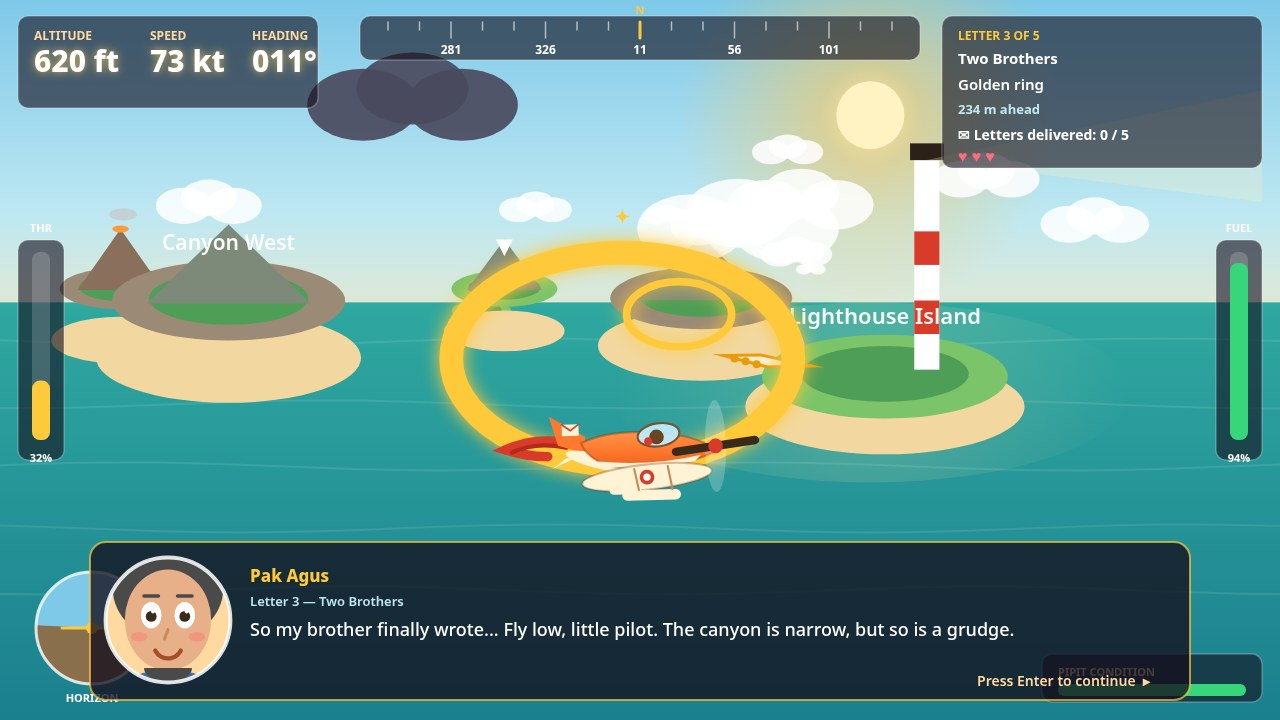
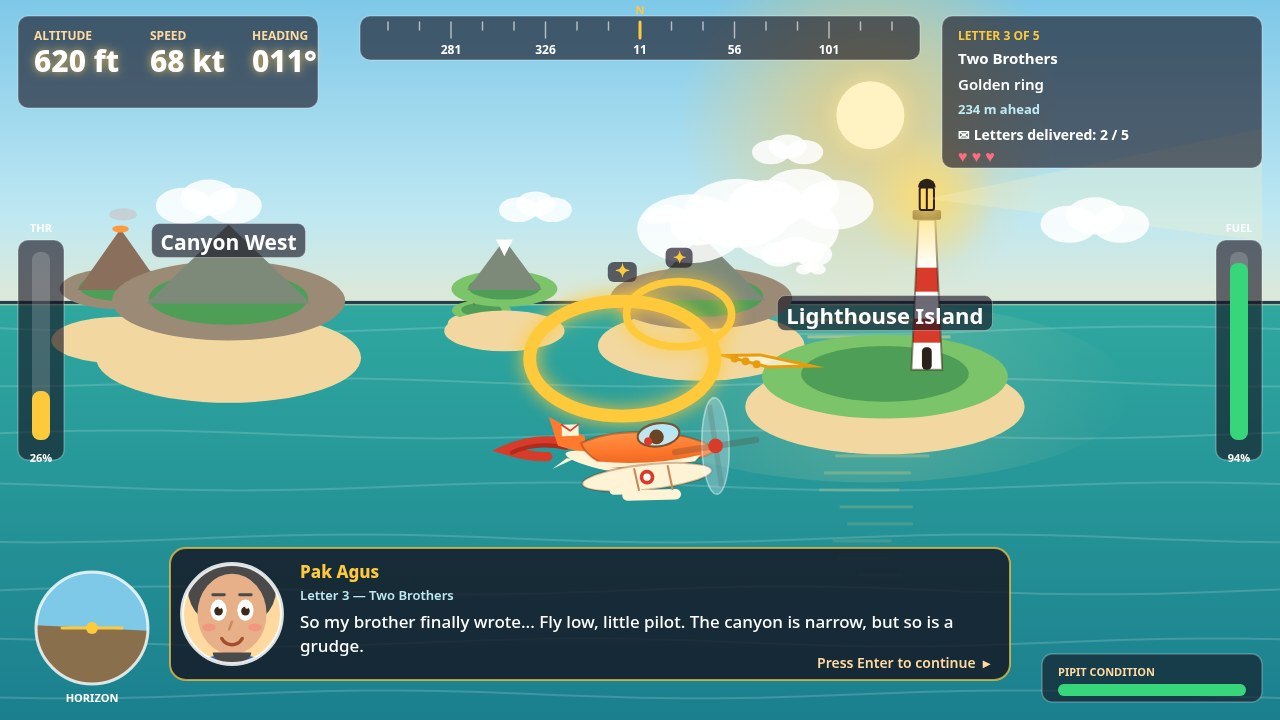
Polish screenshots: sunset sea, readable labels, dialogue clear of gauges, staged letters/speeds, translucent propeller, capped rings, complete lighthouse

diff --git a/game/src/terrain.js b/game/src/terrain.js
@@ -71,7 +71,7 @@ function skyColors(sky) {
   return [PALETTE.skyTopDay, PALETTE.skyMidDay, PALETTE.skyLowDay];
 }
 function seaColors(sky) {
-  if (sky === 'dusk' || sky === 'sunset') return [PALETTE.seaDusk, '#8f4a3a'];
+  if (sky === 'dusk' || sky === 'sunset') return ['#e07856', '#2e6b7a', '#142c44'];
   if (sky === 'night') return [PALETTE.seaNight, '#101c3a'];
   return [PALETTE.seaDay, PALETTE.seaDeepDay];
 }
@@ -100,12 +100,36 @@ export function drawSky(ctx, sky, time) {
 }
 
 export function drawSea(ctx, sky, time) {
-  const [top, deep] = seaColors(sky);
+  const stops = seaColors(sky);
   const horizon = VIEW.height * CAMERA.horizonBase;
   const g = ctx.createLinearGradient(0, horizon, 0, VIEW.height);
-  g.addColorStop(0, top); g.addColorStop(1, deep);
+  if (stops.length === 3) {
+    // Sunset/dusk sea: a warm orange band at the horizon, fading fast
+    // into deep teal — unmistakably water, never brown land.
+    g.addColorStop(0, stops[0]); g.addColorStop(0.16, '#8a5a68'); g.addColorStop(0.38, stops[1]); g.addColorStop(1, stops[2]);
+  } else {
+    g.addColorStop(0, stops[0]); g.addColorStop(1, stops[1]);
+  }
   ctx.fillStyle = g; ctx.fillRect(0, horizon, VIEW.width, VIEW.height - horizon);
-  // Sun glitter: one soft wide glow on the water under the sun.
+  // A crisp horizon line separates sky from water.
+  ctx.fillStyle = 'rgba(20,30,55,0.85)'; ctx.fillRect(0, horizon - 1.5, VIEW.width, 3);
+  ctx.fillStyle = 'rgba(255,220,160,0.5)'; ctx.fillRect(0, horizon + 1.5, VIEW.width, 1.5);
+  // Sun glitter: a column of gold dashes on the water under the sun.
+  if (sky === 'dusk' || sky === 'sunset' || sky === 'day') {
+    const gx = VIEW.width * 0.68;
+    ctx.save();
+    for (let i = 0; i < 16; i += 1) {
+      const y = horizon + 16 + i * 17;
+      const w = 150 - i * 7;
+      const alpha = 0.5 - i * 0.028;
+      if (alpha <= 0) break;
+      ctx.fillStyle = `rgba(255,214,120,${alpha.toFixed(2)})`;
+      const wob = Math.sin(time * 1.3 + i * 1.7) * 12;
+      ctx.fillRect(gx - w / 2 + wob, y, w, 3);
+    }
+    ctx.restore();
+  }
+  // Soft wide glow on the water under the sun.
   ctx.save(); ctx.globalAlpha = 0.22;
   const gl = ctx.createRadialGradient(VIEW.width * 0.68, horizon + 90, 4, VIEW.width * 0.68, horizon + 90, 260);
   gl.addColorStop(0, 'rgba(255,233,168,0.9)');
@@ -113,10 +137,11 @@ export function drawSea(ctx, sky, time) {
   ctx.fillStyle = gl;
   ctx.beginPath(); ctx.ellipse(VIEW.width * 0.68, horizon + 90, 260, 90, 0, 0, Math.PI * 2); ctx.fill();
   ctx.restore();
-  // Gentle swell lines.
-  ctx.strokeStyle = 'rgba(255,255,255,0.10)'; ctx.lineWidth = 2;
-  for (let i = 0; i < 5; i += 1) {
-    const y = horizon + 40 + i * 62;
+  // Visible wave lines, stronger than before so the water reads as water.
+  ctx.strokeStyle = sky === 'dusk' || sky === 'sunset' ? 'rgba(255,220,170,0.20)' : 'rgba(255,255,255,0.16)';
+  ctx.lineWidth = 2;
+  for (let i = 0; i < 8; i += 1) {
+    const y = horizon + 28 + i * 52;
     ctx.beginPath();
     for (let x = 0; x <= VIEW.width; x += 40) {
       const yy = y + Math.sin(x * 0.01 + time * 0.8 + i * 2) * 4;
@@ -171,15 +196,49 @@ function drawIsland(ctx, cam, isl, sky, time) {
     }
   }
   if (isl.kind === 'lighthouse') {
-    const lx = p.x + r * 0.3, baseY = topY + r * 0.05, hgt = r * 1.5;
-    ctx.fillStyle = '#fff'; ctx.fillRect(lx - r * 0.09, baseY - hgt, r * 0.18, hgt);
-    ctx.fillStyle = '#d93b2b'; ctx.fillRect(lx - r * 0.09, baseY - hgt * 0.66, r * 0.18, hgt * 0.16);
-    ctx.fillRect(lx - r * 0.09, baseY - hgt * 0.33, r * 0.18, hgt * 0.16);
-    ctx.fillStyle = '#2b2118'; ctx.fillRect(lx - r * 0.12, baseY - hgt - r * 0.12, r * 0.24, r * 0.12);
+    // A complete lighthouse: tapered tower, red bands, gallery platform,
+    // glowing lamp room and dome — never a bare pole cut off at the top.
+    const lx = p.x + r * 0.3, baseY = topY + r * 0.05;
+    const hgt = Math.min(r * 1.15, 150);
+    const bw = r * 0.22, tw = r * 0.12;
+    const lampY = baseY - hgt;
+    ctx.save();
+    ctx.beginPath();
+    ctx.moveTo(lx - bw / 2, baseY); ctx.lineTo(lx - tw / 2, lampY);
+    ctx.lineTo(lx + tw / 2, lampY); ctx.lineTo(lx + bw / 2, baseY); ctx.closePath();
+    ctx.fillStyle = '#fff'; ctx.fill();
+    ctx.clip();
+    ctx.fillStyle = '#d93b2b';
+    ctx.fillRect(lx - bw, baseY - hgt * 0.68, bw * 2, hgt * 0.16);
+    ctx.fillRect(lx - bw, baseY - hgt * 0.34, bw * 2, hgt * 0.16);
+    ctx.restore();
+    ctx.strokeStyle = 'rgba(60,40,20,0.5)'; ctx.lineWidth = 2;
+    ctx.beginPath();
+    ctx.moveTo(lx - bw / 2, baseY); ctx.lineTo(lx - tw / 2, lampY);
+    ctx.lineTo(lx + tw / 2, lampY); ctx.lineTo(lx + bw / 2, baseY); ctx.closePath(); ctx.stroke();
+    // Door at the base.
+    ctx.fillStyle = '#2b2118';
+    ctx.beginPath(); ctx.roundRect(lx - r * 0.035, baseY - r * 0.16, r * 0.07, r * 0.16, r * 0.03); ctx.fill();
+    // Gallery platform, wider than the tower top.
+    ctx.fillStyle = '#2b2118';
+    ctx.beginPath(); ctx.roundRect(lx - tw * 0.85, lampY - r * 0.07, tw * 1.7, r * 0.07, 2); ctx.fill();
+    // Lamp room: glowing glass in a dark frame, with a dome cap.
+    const lampH = r * 0.16, lampW = tw * 0.85;
+    const glow = ctx.createRadialGradient(lx, lampY - r * 0.07 - lampH / 2, 2, lx, lampY - r * 0.07 - lampH / 2, r * 0.5);
+    glow.addColorStop(0, 'rgba(255,220,110,0.9)'); glow.addColorStop(1, 'rgba(255,220,110,0)');
+    ctx.fillStyle = glow; ctx.beginPath(); ctx.arc(lx, lampY - r * 0.07 - lampH / 2, r * 0.5, 0, Math.PI * 2); ctx.fill();
+    ctx.fillStyle = '#ffd76a';
+    ctx.beginPath(); ctx.roundRect(lx - lampW / 2, lampY - r * 0.07 - lampH, lampW, lampH, 2); ctx.fill();
+    ctx.strokeStyle = '#2b2118'; ctx.lineWidth = 2;
+    ctx.beginPath(); ctx.roundRect(lx - lampW / 2, lampY - r * 0.07 - lampH, lampW, lampH, 2); ctx.stroke();
+    ctx.beginPath(); ctx.moveTo(lx, lampY - r * 0.07 - lampH); ctx.lineTo(lx, lampY - r * 0.07); ctx.stroke();
+    ctx.fillStyle = '#2b2118';
+    ctx.beginPath(); ctx.arc(lx, lampY - r * 0.07 - lampH, lampW * 0.62, Math.PI, 0); ctx.fill();
+    const beamY = lampY - r * 0.07 - lampH / 2;
     const beam = (Math.sin(time * 0.7) + 1) / 2;
     ctx.save(); ctx.globalAlpha = 0.25 + beam * 0.3; ctx.fillStyle = '#fff3c4';
-    ctx.beginPath(); ctx.moveTo(lx, baseY - hgt);
-    ctx.lineTo(lx + r * 2.4, baseY - hgt - r * 0.5); ctx.lineTo(lx + r * 2.4, baseY - hgt + r * 0.3);
+    ctx.beginPath(); ctx.moveTo(lx, beamY);
+    ctx.lineTo(lx + r * 2.4, beamY - r * 0.5); ctx.lineTo(lx + r * 2.4, beamY + r * 0.3);
     ctx.closePath(); ctx.fill(); ctx.restore();
   }
   if (isl.kind === 'village') {
@@ -206,12 +265,8 @@ function drawIsland(ctx, cam, isl, sky, time) {
     drawPalm(ctx, p.x - r * 0.45, topY + r * 0.05, r * 0.5);
     drawPalm(ctx, p.x + r * 0.4, topY + r * 0.02, r * 0.42);
   }
-  // Island name tag when close enough to read and clear of the HUD edges.
-  if (p.depth < 900 && p.x > 150 && p.x < VIEW.width - 150) {
-    ctx.font = `600 ${Math.max(11, Math.round(r * 0.16))}px ${'system-ui, sans-serif'}`;
-    ctx.textAlign = 'center'; ctx.fillStyle = 'rgba(255,255,255,0.95)';
-    ctx.fillText(isl.name, p.x, topY - r * 0.28);
-  }
+  // Island names are drawn separately, last, by drawIslandLabels — after
+  // rings, clouds and the plane — so no label is ever half-hidden.
 }
 
 export function drawRunway(ctx, cam, isl, sky) {
@@ -238,10 +293,46 @@ export function drawRunway(ctx, cam, isl, sky) {
   ctx.restore();
 }
 
+export function drawIslandLabels(ctx, cam) {
+  // Labels last, on a dark pill with a halo, so rings, clouds and the
+  // plane can never cover the text.
+  for (const isl of ISLANDS) {
+    const p = project(cam, isl.x, 0, isl.z);
+    if (!p || p.depth >= 900 || p.x < 120 || p.x > VIEW.width - 120) continue;
+    const r = Math.max(4, isl.r * p.scale);
+    const topY = p.y - isl.h * p.scale;
+    const size = Math.max(12, Math.round(r * 0.16));
+    ctx.font = `700 ${size}px system-ui, sans-serif`;
+    ctx.textAlign = 'center'; ctx.textBaseline = 'alphabetic';
+    const w = ctx.measureText(isl.name).width;
+    const ly = topY - r * 0.28;
+    // Clamp the pill so it never runs off the screen edge (a label
+    // centred on a half-visible island used to be clipped on the left).
+    const half = w / 2 + 9;
+    const cx = Math.max(half + 8, Math.min(VIEW.width - half - 8, p.x));
+    ctx.fillStyle = 'rgba(18,14,30,0.62)';
+    ctx.beginPath(); ctx.roundRect(cx - w / 2 - 9, ly - size - 6, w + 18, size + 13, 8); ctx.fill();
+    ctx.strokeStyle = 'rgba(255,255,255,0.35)'; ctx.lineWidth = 1; ctx.stroke();
+    ctx.fillStyle = '#fff';
+    ctx.fillText(isl.name, cx, ly);
+  }
+}
+
 export function drawRing(ctx, cam, ring, time) {
   const p = project(cam, ring.x, ring.y, ring.z);
   if (!p || p.depth < 45) return;
-  const r = Math.min(170, Math.max(6, ring.r * p.scale * 1.6));
+  // Capped so a ring never envelops the whole island or the plane: it
+  // must read as a target ahead, with island and runway visible through it.
+  const r = Math.min(92, Math.max(6, ring.r * p.scale * 1.6));
+  // Never draw a ring half-hidden behind a HUD panel (its arc and its
+  // FUEL label would both be cut by the panel): skip it this frame.
+  const panels = [
+    [18, 16, 300, 92], [360, 16, 560, 44], [VIEW.width - 338, 16, 320, 152],
+    [18, 240, 46, 220], [VIEW.width - 64, 240, 46, 220],
+  ];
+  for (const [px, py, pw, ph] of panels) {
+    if (p.x + r > px && p.x - r < px + pw && p.y + r * 0.62 > py && p.y - r * 0.8 - 28 < py + ph) return;
+  }
   const pulse = 1 + Math.sin(time * 3 + ring.z * 0.01) * 0.06;
   ctx.save();
   ctx.strokeStyle = ring.fuel ? '#37d67a' : PALETTE.gold;
@@ -250,19 +341,32 @@ export function drawRing(ctx, cam, ring, time) {
   ctx.shadowBlur = 18;
   ctx.beginPath(); ctx.ellipse(p.x, p.y, r * pulse, r * 0.62 * pulse, 0, 0, Math.PI * 2); ctx.stroke();
   ctx.shadowBlur = 0;
-  ctx.fillStyle = ring.fuel ? '#37d67a' : PALETTE.gold;
+  const labelText = ring.fuel ? 'FUEL' : '✦';
   ctx.font = `700 ${Math.max(11, Math.min(18, Math.round(r * 0.3)))}px system-ui, sans-serif`;
-  ctx.textAlign = 'center';
-  ctx.fillText(ring.fuel ? 'FUEL' : '✦', p.x, p.y - r * 0.8);
+  ctx.textAlign = 'center'; ctx.textBaseline = 'alphabetic';
+  const lw = ctx.measureText(labelText).width;
+  const labelY = p.y - r * 0.8 - 8;
+  ctx.fillStyle = 'rgba(18,14,30,0.65)';
+  ctx.beginPath(); ctx.roundRect(p.x - lw / 2 - 7, labelY - 15, lw + 14, 20, 6); ctx.fill();
+  ctx.fillStyle = ring.fuel ? '#37d67a' : PALETTE.gold;
+  ctx.fillText(labelText, p.x, labelY);
   ctx.restore();
 }
 
 export function drawCloud(ctx, cam, cloud, sky, time) {
   const p = project(cam, cloud.x, cloud.y, cloud.z);
   if (!p || p.depth < 90) return;
-  // Never paint a cloud over the HUD panels at the top corners.
-  if (p.y < 140 && (p.x < 360 || p.x > 920)) return;
   const s = Math.min(90, Math.max(6, cloud.s * p.scale));
+  // Never paint a cloud over a HUD panel: check the cloud's whole
+  // bounding box against every panel, not just its centre.
+  const bx0 = p.x - s * 1.2, bx1 = p.x + s * 1.2, by0 = p.y - s * 0.6, by1 = p.y + s * 0.4;
+  const panels = [
+    [18, 16, 300, 92], [360, 16, 560, 44], [VIEW.width - 338, 16, 320, 152],
+    [18, 240, 46, 220], [VIEW.width - 64, 240, 46, 220],
+  ];
+  for (const [px, py, pw, ph] of panels) {
+    if (bx1 > px && bx0 < px + pw && by1 > py && by0 < py + ph) return;
+  }
   ctx.save();
   ctx.globalAlpha = cloud.storm ? 0.92 : 0.85;
   ctx.fillStyle = cloud.storm ? '#4a4a5e' : sky === 'night' ? '#5a5a8a' : sky === 'sunset' || sky === 'dusk' ? '#ffe9c4' : '#ffffff';
@@ -287,6 +391,7 @@ export function drawTerrain(ctx, cam, sky, clouds, rings, runwayIsland, time) {
   const farClouds = clouds.filter((c) => c.z > cam.z + 200);
   const nearClouds = clouds.filter((c) => c.z <= cam.z + 200);
   for (const c of farClouds) drawCloud(ctx, cam, c, sky, time);
-  for (const ring of rings) if (!ring.done) drawRing(ctx, cam, ring, time);
   for (const c of nearClouds) drawCloud(ctx, cam, c, sky, time);
+  // Rings after the clouds, so no cloud ever covers a ring or its label.
+  for (const ring of rings) if (!ring.done) drawRing(ctx, cam, ring, time);
 }

diff --git a/game/src/render.js b/game/src/render.js
@@ -3,7 +3,7 @@
 // Chase camera, terrain, Pipit, particles, HUD, dialogue overlay, and the
 // title, pause, crash, delivered and ending screens.
 import { VIEW, FONT, PALETTE } from './config.js';
-import { cameraFor, drawTerrain, islandById, MISSION_TARGETS, project } from './terrain.js';
+import { cameraFor, drawTerrain, drawIslandLabels, islandById, MISSION_TARGETS, project } from './terrain.js';
 import { drawPlane } from './plane.js';
 import { drawHud } from './hud.js';
 import { drawPortrait, CHARACTER_NAMES } from './characters.js';
@@ -53,15 +53,18 @@ export function createRenderer(canvas, particles, clouds) {
     const line = s.dialogue.lines[s.dialogueIndex];
     if (!line) return;
     const m = world.mission();
+    // Narrower, higher dialogue panel: it must leave the artificial
+    // horizon gauge (bottom-left) and the Pipit Condition bar
+    // (bottom-right) fully visible.
     ctx.fillStyle = 'rgba(20,16,30,0.78)';
-    ctx.beginPath(); ctx.roundRect(90, VIEW.height - 178, VIEW.width - 180, 158, 16); ctx.fill();
+    ctx.beginPath(); ctx.roundRect(170, VIEW.height - 172, 840, 132, 16); ctx.fill();
     ctx.strokeStyle = 'rgba(255,201,60,0.7)'; ctx.lineWidth = 2; ctx.stroke();
-    drawPortrait(ctx, line.who, 168, VIEW.height - 100, 120, 'happy');
-    text(ctx, CHARACTER_NAMES[line.who] || line.who, 250, VIEW.height - 138, 17, '#ffc93c', 'left', 800);
-    text(ctx, `Letter ${m.id} — ${m.name}`, 250, VIEW.height - 114, 13, '#bfe8f2', 'left');
+    drawPortrait(ctx, line.who, 232, VIEW.height - 106, 96, 'happy');
+    text(ctx, CHARACTER_NAMES[line.who] || line.who, 300, VIEW.height - 142, 17, '#ffc93c', 'left', 800);
+    text(ctx, `Letter ${m.id} — ${m.name}`, 300, VIEW.height - 120, 13, '#bfe8f2', 'left');
     ctx.fillStyle = '#fff';
-    wrapText(ctx, line.text, 250, VIEW.height - 84, VIEW.width - 360, 26, 18);
-    text(ctx, 'Press Enter to continue  ▸', VIEW.width - 130, VIEW.height - 34, 14, '#ffd9a0', 'right');
+    wrapText(ctx, line.text, 300, VIEW.height - 92, 690, 24, 17);
+    text(ctx, 'Press Enter to continue  ▸', VIEW.width - 290, VIEW.height - 52, 14, '#ffd9a0', 'right');
   }
 
   function drawTitle(world) {
@@ -138,6 +141,9 @@ export function createRenderer(canvas, particles, clouds) {
     // Petals drift up on the final flight.
     if (m.id === 5 && s.mode === 'fly') particles.petals(px, py - 40, 1);
     if (screen !== SCREEN_TITLE) drawHud(ctx, world, screen);
+    // Island labels last (after terrain, rings, clouds, plane and HUD),
+    // so no label is ever half-hidden by any of them.
+    if (screen !== SCREEN_TITLE) drawIslandLabels(ctx, cam);
     if (screen === SCREEN_PLAY) drawDialogue(world);
     if (screen === SCREEN_TITLE) drawTitle(world);
     else if (screen === SCREEN_CRASH) drawCrash(world);

diff --git a/game/src/shots.js b/game/src/shots.js
@@ -31,18 +31,31 @@ function flyFor(world, seconds) {
   }
 }
 
+// Stage the exact flight state a shot shows: letters delivered must
+// match the mission (Letter 3 => 2 already delivered, and so on), and
+// each shot reads at its own plausible speed and altitude.
+function stageState(world, letters, speed, alt, throttle, pitch) {
+  const p = world.state.plane;
+  world.state.letters = letters;
+  world.state.deliveredCount = letters;
+  p.speed = speed; p.alt = alt; p.throttle = throttle;
+  p.pitch = pitch || 0; p.vs = pitch ? -6 : 0;
+}
+
 export function stageShot(name, world) {
   const shot = name || 'cover';
   if (shot === 'cover') {
     world.startMission(0);
     world.advanceDialogue(); world.advanceDialogue();
     flyFor(world, 5.5);
+    stageState(world, 0, 82, 85, 0.42, 0);
     return { screen: SCREEN_PLAY, best: 0 };
   }
   if (shot === 'storm') {
     world.startMission(2);
     world.advanceDialogue(); world.advanceDialogue();
     flyFor(world, 15);
+    stageState(world, 2, 68, 62, 0.26, 0);
     // A mid-flight word from Agus, as the canyon opens ahead: the
     // dialogue overlay is a real game state, shown while flying.
     world.state.dialogue = { lines: [{ who: 'agus', text: 'So my brother finally wrote... Fly low, little pilot. The canyon is narrow, but so is a grudge.' }], kind: 'mid' };
@@ -53,12 +66,14 @@ export function stageShot(name, world) {
     world.startMission(3);
     world.advanceDialogue(); world.advanceDialogue();
     flyFor(world, 21);
+    stageState(world, 3, 61, 48, 0.18, -0.15);
     return { screen: SCREEN_PLAY, best: 0 };
   }
   if (shot === 'sunset') {
     world.startMission(4);
     world.advanceDialogue(); world.advanceDialogue();
     flyFor(world, 15);
+    stageState(world, 4, 74, 120, 0.33, 0);
     return { screen: SCREEN_PLAY, best: 0 };
   }
   world.startMission(0);

diff --git a/game/src/plane.js b/game/src/plane.js
@@ -65,14 +65,21 @@ export function drawPlane(ctx, cx, cy, scale, bank, pitch, propAngle, scarfWave,
   ctx.strokeStyle = '#c98a5a'; ctx.lineWidth = 2;
   ctx.beginPath(); ctx.moveTo(-6, 18); ctx.lineTo(-2, 38); ctx.stroke();
   ctx.beginPath(); ctx.moveTo(26, 16); ctx.lineTo(30, 38); ctx.stroke();
-  // Propeller: spinning blur disc + two blades at propAngle.
+  // Propeller: a translucent spinning blur disc, never a solid bar.
+  // Two faint blades at propAngle inside a light-grey disc, so the
+  // nose reads as a spinning prop, not a stick across the plane.
   ctx.save();
   ctx.translate(72, -2);
-  ctx.fillStyle = 'rgba(255,255,255,0.22)';
-  ctx.beginPath(); ctx.ellipse(0, 0, 10, 44, 0, 0, Math.PI * 2); ctx.fill();
+  ctx.fillStyle = 'rgba(235,242,248,0.30)';
+  ctx.beginPath(); ctx.ellipse(0, 0, 13, 46, 0, 0, Math.PI * 2); ctx.fill();
+  ctx.strokeStyle = 'rgba(255,255,255,0.45)'; ctx.lineWidth = 1.5;
+  ctx.beginPath(); ctx.ellipse(0, 0, 13, 46, 0, 0, Math.PI * 2); ctx.stroke();
   ctx.rotate(propAngle);
-  ctx.fillStyle = '#3a2a1c';
-  ctx.beginPath(); ctx.roundRect(-4, -42, 8, 84, 4); ctx.fill();
+  ctx.fillStyle = 'rgba(90,70,55,0.28)';
+  ctx.beginPath(); ctx.roundRect(-3, -42, 6, 84, 3); ctx.fill();
+  ctx.rotate(Math.PI / 2);
+  ctx.fillStyle = 'rgba(90,70,55,0.18)';
+  ctx.beginPath(); ctx.roundRect(-2.5, -40, 5, 80, 2.5); ctx.fill();
   ctx.restore();
   ctx.fillStyle = '#d93b2b'; ctx.beginPath(); ctx.arc(72, -2, 7, 0, Math.PI * 2); ctx.fill();
   // Damage smoke puffs when hurt.
